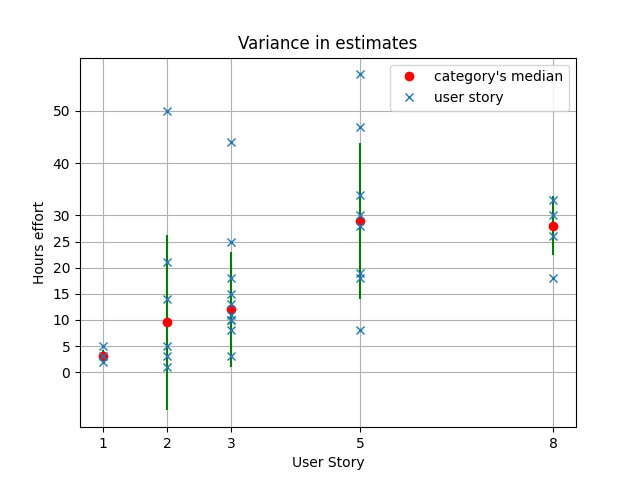
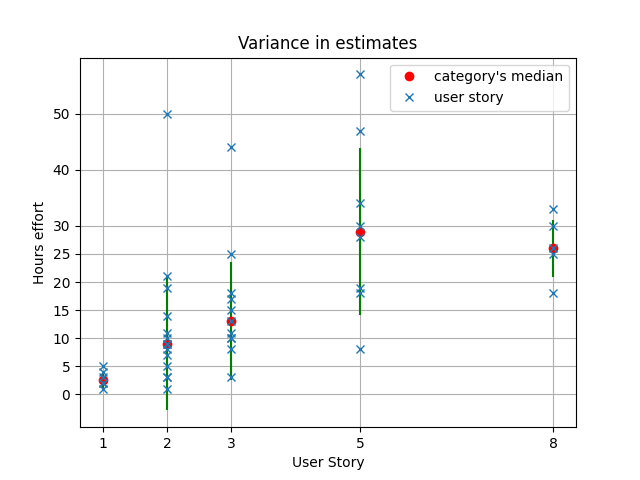
add effort in hours and start filiing the sprint 7 retrospective document

diff --git a/variance-chart/chartPythonMedian.py b/variance-chart/chartPythonMedian.py
@@ -26,7 +26,7 @@ class UserStory :
 
 if __name__ == '__main__' :
        #NUMBER OF THE CURRENT SPRINT
-       analyzed_sprint = 6
+       analyzed_sprint = 7
        #MODIFY THE VALUE ABOVE 
 
        number_of_bad_estimations = 0

diff --git a/sprint-retrospectives/Sprint07_Retrospective.md b/sprint-retrospectives/Sprint07_Retrospective.md
@@ -4,8 +4,8 @@
 
 ### Macro statistics
 
-- Number of stories committed vs done : 13/ 
-- Total points committed vs done : 30/
+- Number of stories committed vs done : 13/13
+- Total points committed vs done : 30/30
 
 ### Definition of Done
 
@@ -39,25 +39,26 @@
 
 - Unit Testing:
 
-  - Nr of automated unit test cases : x Front End + x Back End
-  - Coverage : %
+  - Nr of automated unit test cases : 67 Front End + 353 Back End
+  - Coverage : 96.45%
 
 - E2E testing:
   - Not yet done
 - Code review
-  - h
+  - 6h
 
 ## ASSESSMENT
 
 - What caused your errors in estimation (if any)? 
 
 - What lessons did you learn (both positive and negative) in this sprint?
-
-  
+  - 
 
 - Which improvement goals set in the previous retrospective were you able to achieve? <br>
+  - Saurav well integrated in the team
   
 - Which ones you were not able to achieve? Why?<br>
+  - We did not fill a file with known bug but because we thought that the jira representation is enough.
   
 - Improvement goals for the next sprint <br>
 
